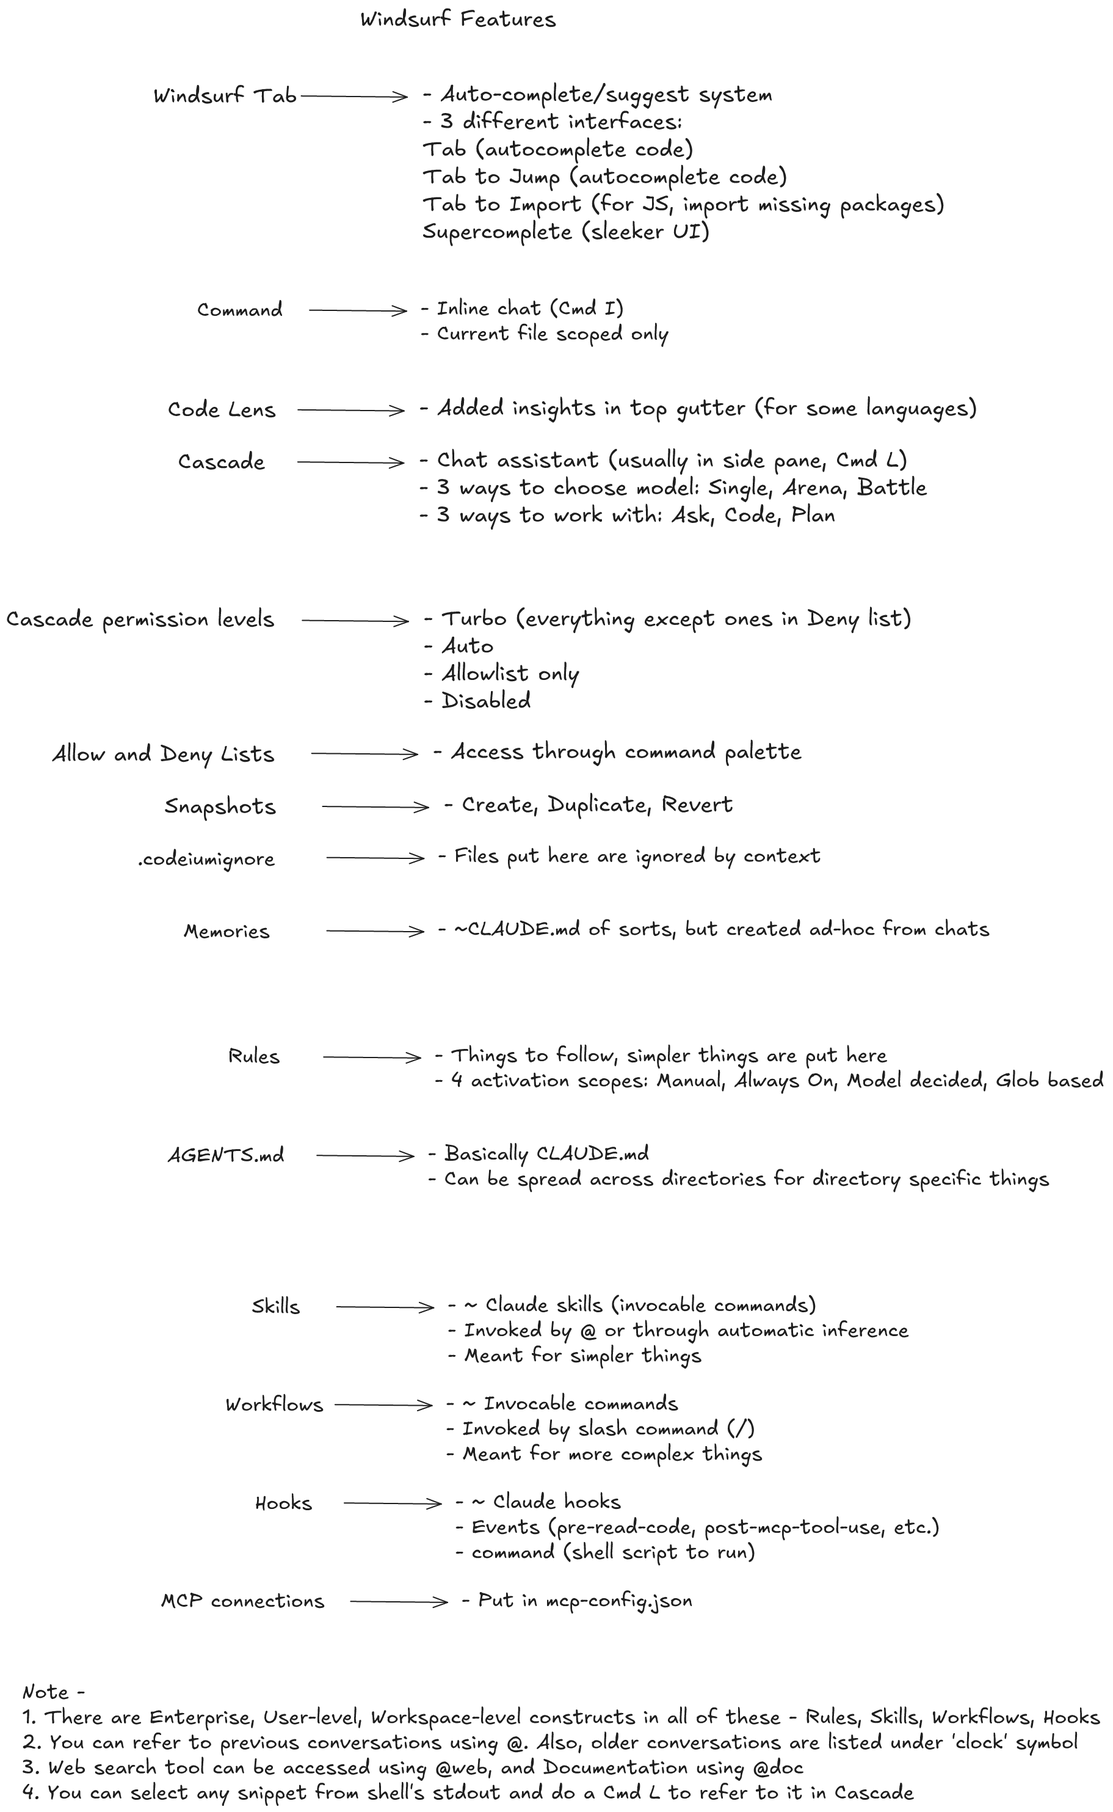
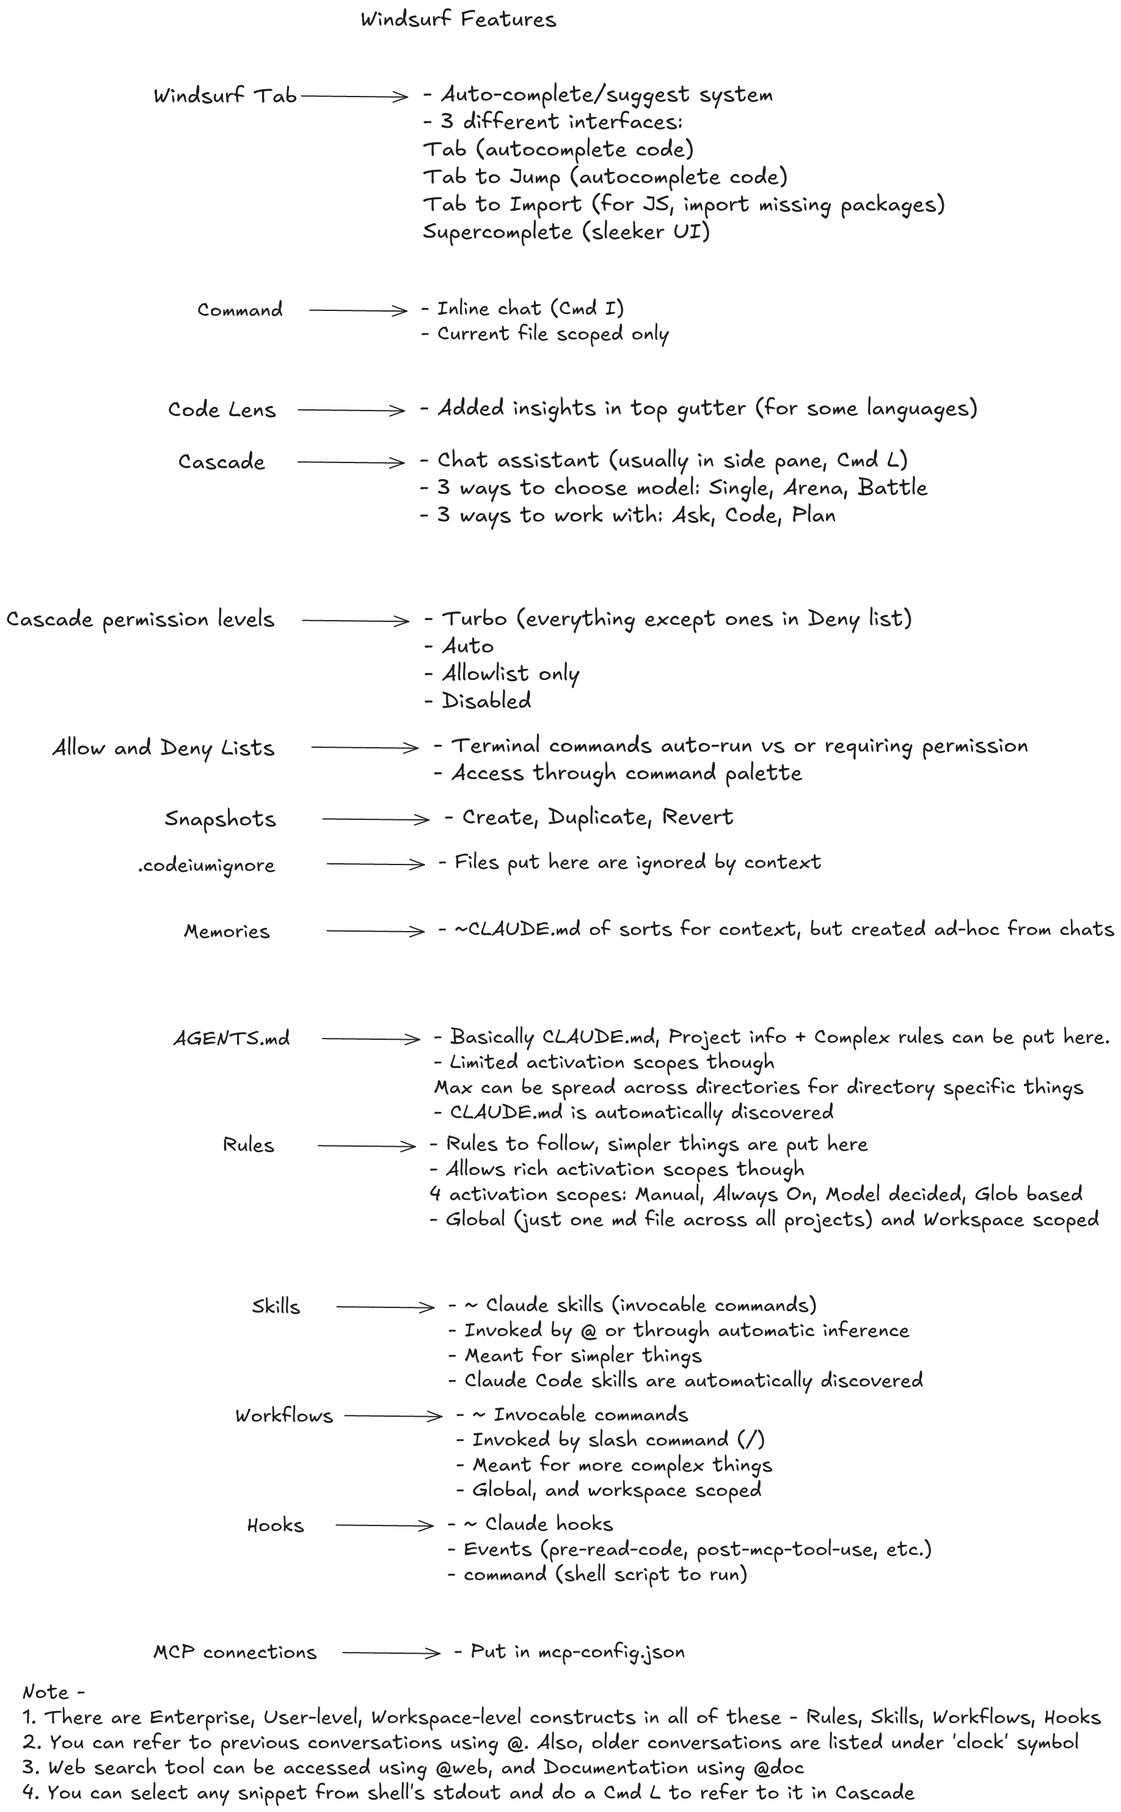
WIP, Web deployment diagram, npm + Astro

diff --git a/03. iOS/07. Persistence/1. Core Data/1. Basics - Entities, Model, Relationships, Transient Properties, etc.md b/03. iOS/07. Persistence/1. Core Data/1. Basics - Entities, Model, Relationships, Transient Properties, etc.md
@@ -1,21 +1,21 @@
 'Use Core Data' option is shown while creating a new project only if the selected template is 'Empty application'. And then if the option is chosen, CoreData.framework, a data model file and the basic Core Data methods are already added in the AppDelegate implementation. The appDelegate also has properties which gives access to the Core Data stack, i.e. managed object context, persistent store coordinator, managed object model.
 
-Core Data stack implies the typical collection (or stack) of objects that work together to get data from and store to a persistent store. The stack consists of managed object context on top, a persistent store coordinator below it, a persistent store yet below it, a managed object model right next to the persistent store coordinator, and finally the actual store file in the bottom.
+Core Data stack implies the typical collection (or stack) of objects that work together to get data from and store to a persistent store. The stack consists of **managed object context** on top, a **persistent store coordinator** below it, a **persistent store** yet below it, a **managed object model** right next to the persistent store coordinator, and finally the actual **store file** in the bottom.
 
 ![](assets/1.Basics-Entities,Model,etc-798d9f6c.png)
 
-Changes are actually stored in the store only when a commit is done, i.e. a saveContext done.
+Changes are actually stored in the store only when a **commit** is done, i.e. a saveContext done.
 
-A managed object context represents a single object space (something like a space full with managed objects). Not all the data present in the store is available by default with the context, it only has the data it retrieved. Context is what makes things like undo and redo possible.
+A **managed object context** represents a single object space (something like a space full with managed objects). Not all the data present in the store is available by default with the context, it only has the data it retrieved. Context is what makes things like undo and redo possible.
 
-A managed object model is a schema. Technically, it is a collection of entity description objects (i.e. NSEntityDescription).
+A **managed object model** is a **schema**. Technically, it is a collection of **entity description objects** (i.e. NSEntityDescription).
 
-A persistent store coordinator manages a collection of persistent object stores. Usually iOS applications have just one single store, but in some cases there may be several. Persistent store coordinator manages all these stores and presents them to its managed object contexts as a single unified store. While fetching records, Core Data retrieves results from all of them unless it is specified which particular store needs to be queried.
+A **persistent store coordinator** manages a collection of persistent object stores. Usually iOS applications have just one single store, but in some cases there may be several. Persistent store coordinator manages all these stores and presents them to its managed object contexts as a single unified store. While fetching records, Core Data retrieves results from all of them unless it is specified which particular store needs to be queried.
 
 A single coordinator can be tied to multiple contexts.
 
 
-A persistent object store is what actually maps between objects in the application and the records in the database. There are different classes of persistent object stores for the different file types that Core Data supports.
+A **persistent object store** is what actually maps between objects in the application and the records in the database. There are different classes of persistent object stores for the different file types that Core Data supports.
 
 Usually iOS applications have just a single persistent store. But in complex applications there can be multiple stores, each with potentially different entities.
 
@@ -26,19 +26,21 @@ An application can easily have multiple managed object contexts, each maintainin
 You need to have a persistent store coordinator created first and then tie a context to it.
 You need to initialize a persistent store coordinator with a managed object model and then also add a persistent store to it. So a managed object model needs to be created before a persistent store coordinator is created. Persistent store does not need to be created specifically, it automatically happens when a persistent store coordinator ties itself to a persistent store.
 
+```
 Managed object model > Persistent Store Coordinator > Managed object context
+```
 
-Even though a managed object model is added to a persistent store coordinator using a URL with .momd extension, the .momd file cannot actually be located in Finder. It is generated from the .xcdatamodeld file present in the project, during runtime.
+Even though a managed object model is added to a persistent store coordinator using a URL with `.momd` extension, the .momd file cannot actually be located in Finder. It is generated from the `.xcdatamodeld` file present in the project, during runtime.
 
 Usually document-based applications (or in other words apps using NSPersistentDocument) create their own persistence stack. In such cases, there is a one-to-one mapping between a document and an external data store.
 
-An entity can have attributes, relationships and fetched properties. Programmatically, they are represented by NSAttributeDescription, NSRelationshipDescription and NSFetchedPropertyDescription.
+An **entity** can have **attributes**, **relationships** and **fetched properties**. Programmatically, they are represented by `NSAttributeDescription`, `NSRelationshipDescription` and `NSFetchedPropertyDescription`.
 
 Entities can also follow an inheritance structure, i.e. if some entities share some common attributes then there can be a parent entity made with those common attributes and other entities would inherit from it. If this inheritance is done from Xcode's data model editor, the parent entity needs to be specified (in the Utilities area) for each of the inheriting entities. However, if it is done from the code then an array of all the inheriting entities needs to be added to the parent entity.
 
 The thing to understand about using an inheritance structure is that even if an instance of child entity is created, it automatically creates an instance of its parent entity too (i.e. 2 managed objects are getting created). Also, all the fetch requests for the parent entity will by default include even the instances (managed objects) which were created through the child entity as well. If these fetch requests should not include such instances, then includesSubentities property of the fetch request should be set as NO.
 
-An abstract entity is one for which instances are never created (a lot like NSObject). They are typically parent entities in inheritance.
+An abstract entity is one for which instances are never directly created (a lot like NSObject). They are typically parent entities in inheritance.
 
 Transient properties are those which are not saved to the persistent store. However, changes to them are tracked by Core Data for undo operations. So, they are useful when some properties need to be tracked for change but not saved. They can have other uses too, for example if there needs to be a password attribute which should never be persisted in sandbox but instead in keychain or if an attribute's can always be determined from other attribute’s values and hence persisting this attribute is redundant.
 A fetch request cannot have a predicate based on transient properties.

diff --git a/16. IDEs/6. Rulesync/Misc.md b/16. IDEs/6. Rulesync/Misc.md
@@ -1,0 +1,81 @@
+##### What is it
+
+An open source package that  keeps your skills, subagents, etc. in sync across your different AI tools so that you don't have to keep doing the manual config steps for the same stuff across all of them. ([GH link](https://github.com/dyoshikawa/rulesync), [Reference](https://rulesync.dyoshikawa.com/reference/cli-commands.html))
+
+The idea is that you put your skills, etc. in folder inside `.rulesync` and then run some rulesync commands that then copies them to appropriate folders for Claude Code, Windsurf, etc. 
+
+##### Installation
+
+Can be installed using Homebrew or npm.
+
+```
+brew install rulesync      # <---- If using Homebrew
+npm install -g rulesync    # <---- If using npm
+```
+
+And then initialize it from project directory.
+
+```
+cd project-directory
+rsync init
+```
+
+That creates the following files in project directory.
+
+```
+.rulesync
+├── commands
+│   └── review-pr.md
+├── hooks.json
+├── mcp.json
+├── rules
+│   └── overview.md
+├── skills
+│   └── project-context
+│       └── SKILL.md
+└── subagents
+    └── planner.md
+
+rulesync.jsonc
+```
+
+##### Common commands
+
+Creates the basic rulesync folder structure along with jsonc file
+
+```
+rulesync init
+```
+
+Do necessary config for the mentioned AI tools (`target` option) and featureset, i.e. skills, subagents, etc. (`features` option).
+
+```
+rulesync generate --targets "*" --features "*"
+```
+
+Download the skills, etc. from a given repo. The specific configuration is in the jsonc file.
+
+```
+rulesync fetch GH repo --features skills
+```
+
+Download only the skills, etc. mentioned in `sources` key.
+
+```
+rulesync install
+```
+
+##### rulesync.jsonc
+
+A whole bunch of things that can be configured ([documentation](https://rulesync.dyoshikawa.com/guide/declarative-sources.html)).
+
+Declarative skills are used when just specific skills should be downloaded (instead of all that happen in a `fetch`).
+
+```
+  "sources": [
+     { "source": "owner/repo" },
+     { "source": "org/repo", "skills": ["specific-skill"] },
+  ],
+```
+
+> Will declarative sources also work for subagents, and rules?

diff --git a/16. IDEs/3. Claude Code/06. CLAUDE.md b/16. IDEs/3. Claude Code/06. CLAUDE.md
@@ -25,9 +25,9 @@ The idea with **CLAUDE.md** file is that it is persistent memory automatically l
 |                                                       |                                                              |
 | **./CLAUDE.local.md** (decommissioned)                | Project specific instructions (user managed)                 |
 
-**Files in rules directory**
+##### Files in rules directory
 
-When there are plenty of content that still needs to be loaded from start, you can split them into multiple files and place in `.claude/rules' folder. This way Claude Code does not load everything right at the start but only when it thinks that it needs to.
+When there are path or extension specific rules to follow, they can be put in **rules** directory with the paths that thet need to apply to specified in `paths` frontmatter field. If the `paths` is not specified, the putting things in rules rather serves an organizational purpose only as all the content still gets loaded along with CLAUDE.md ([Documentation](https://code.claude.com/docs/en/memory#organize-rules-with-claude/rules/))
 
 ![image-20260213223411681](./assets/image-20260213223411681.png)
 
@@ -35,11 +35,15 @@ Also these files can specify (in YAML format) the extensions that they should ap
 
 ![image-20260213223514132](./assets/image-20260213223514132.png)
 
-> There can be rules folder at user level too, i.e. in `~/.claude/rules/`.
+There can be rules folder at user level too, i.e. in `~/.claude/rules/` so that they apply to all projects.
 
 ##### When are these files loaded
 
-CLAUDE.md files in child directories load on demand when Claude reads files in those directories. 
+`CLAUDE.md` and `CLAUDE.local.md` files up the directory tree are loaded at launch time.
+
+`CLAUDE.md` and `CLAUDE.local.md` files in subdirectories under your current working directory are loaded only when the files in those subdirectories are read.
+
+md files in .claude/rules are loaded as per their paths frontmatter field.
 
 **Auto memory** (i.e. ~/.claude/projects/<project>/memory/) loads only its first 200 lines.
 

diff --git a/16. IDEs/4. Windsurf/4. Memories and Rules.md b/16. IDEs/4. Windsurf/4. Memories and Rules.md
@@ -1,3 +1,5 @@
+[toc]
+
 ##### Memories
 
 **Memories** is what persists context across conversations (i.e. sessions). During conversation, Cascade automatically generates and store memories if it believes something is useful to remember. You can also tell it to create one for the current state by just saying so in Cascade. 
@@ -10,7 +12,7 @@ Essentially its some text, and you can edit it too.
 
 <img src="./assets/image-20260219180752916.png" alt="image-20260219180752916" style="zoom:50%;" />
 
-Note that Memory is just some general information, and not an exact comprehensive snapshot of a given state. Memories help Windsurf built some context, that's it.
+Note that Memory is just some general information, and not an exact comprehensive snapshot of a given state. Memories help Windsurf build some context, that's it.
 
 ##### Rules
 
@@ -18,7 +20,9 @@ Note that Memory is just some general information, and not an exact comprehensiv
 
 There are two rules files - **global_rules.md** (applied across all projects/workspaces) and **.windsurf/rules** (applies to a given project/workspace). For the project level rules, they can also be nested in any child directories anywhere in the workspace. They don't have to be in the root.
 
-Rules too are accessible from the same 'Cascade Chat Panel > Actions > Configure Rules'.
+Rules too are accessible from the same 'Cascade Chat Panel > Actions > Configure Rules'. 
+
+There is just one global rules md file that can be there, and everything has to be put there. The file is physically located at `~/.codeium/windsurf/memories/global_rules.md`.
 
 | Actions                                                      | Rules                                                        |
 | ------------------------------------------------------------ | ------------------------------------------------------------ |

diff --git a/07. Web Development/5. Node and NPM/3. npm - scripts.md b/07. Web Development/5. Node and NPM/3. npm - scripts.md
@@ -1,0 +1,17 @@
+#### Scripts
+
+The **package.json** can have a **scripts** property that looks smething like this
+
+<img src="./assets/image-20260502164224423.png" alt="image-20260502164224423" style="zoom:50%;" />
+
+What's happening here is this. things like **dev**, **start**, **build** etc. aren't something inherent to npm. What it means is that when a `npm run xyz` is done then the the key which has the name xyz in `scripts` in package.json is located, and its corresponding value  run. So `npm run dev` will do a `astro build` and then astro build does what it actually will.
+
+[Reference](https://docs.npmjs.com/cli/v10/using-npm/scripts), [ChatGPT](https://chatgpt.com/g/g-p-69eba4f755888191bad700affa6982bb-static-website-with-astro/c/69f64dcc-e690-83ea-a9f1-4ade7735ba58)
+
+##### Pre & Post Scripts
+
+Now the thing about the scripts keys **predev**, **postbuild**, etc. is that these run before/after the script name. So `predev` will run just before `npm run dev` starts and `postbuild` will run just after `npm run build` gets done. These are called [pre & post scripts](https://docs.npmjs.com/cli/v10/using-npm/scripts#pre--post-scripts).
+
+##### Life Cycle Scripts
+
+There are certain special scripts that are keyword-ed and run in specific situations. These are things **prepare**, **prepublish**, **prepublishOnly**, **prepack**, **postpack**, **dependencies** . For example, `prepare` is run just before package is packed, i.e.  `npm publish` and `npm pack`. [Reference](https://docs.npmjs.com/cli/v10/using-npm/scripts#life-cycle-scripts)

diff --git a/16. IDEs/2. Codex/1. Basics.md b/16. IDEs/2. Codex/1. Basics.md
@@ -22,7 +22,7 @@ IDE extension is invariably the most efficient way, esp. for local development.
 
 <img src="./assets/Codex-Decision-Tree.png" style="zoom:75%;" />
 
-> Keep in mind though that technically you can still work on multiple things simultaneously with IDE extensions too, just have multiple sessions running. Each task does get its own agent and sandbox. ([ChatGPT link](https://chatgpt.com/c/69ce946c-8c24-83aa-a5bb-731730b01036)) <br><br><img src="./assets/Image 2026-04-02 at 12.12.15 PM.png" alt="Image 2026-04-02 at 12.12.15 PM" style="zoom:50%;" />
+> Keep in mind though that technically you can still work on multiple things simultaneously with IDE extensions too, just have multiple sessions running. Each task does get its own agent and sandbox. ([ChatGPT link](https://chatgpt.com/c/69ce946c-8c24-83aa-a5bb-731730b01036)) <br><br><img src="./assets/Image-2026-04-02-12.12.15.png" alt="Image-2026-04-02-12.12.15" style="zoom:50%;" />
 
 
 

diff --git a/16. IDEs/AI Dev Tools Feature set.md b/16. IDEs/AI Dev Tools Feature set.md
@@ -1,0 +1,9 @@
+##### Comparable Features/Jargon
+
+|                                  | Claude Code                                               | Windsurf                                           |
+| -------------------------------- | --------------------------------------------------------- | -------------------------------------------------- |
+| Context: Project Info            | CLAUDE.md                                                 | AGENTS.md                                          |
+| Context: Rules to follow         | rules folder if path/extension based <br>CLAUDE.md if not | Rules if path/extension based <br>AGENTS.md if not |
+| Pre-specified steps (simple)     | Skills (/)                                                | Skills (@)                                         |
+| Pre-orchestrated steps (complex) | Subagents (@)                                             | Workflows (/)                                      |
+

diff --git a/16. IDEs/4. Windsurf/7. Workflows.md b/16. IDEs/4. Windsurf/7. Workflows.md
@@ -14,11 +14,17 @@ They are limited to 12000 characters each.
 
 ##### Where is it located
 
-`.windsurf/workflows/` in your workspace directory and then can also be in any sub-directory.
+Workspace workflows - `.windsurf/workflows/` in your workspace directory and then can also be in any sub-directory.
 
-Global workflows are probably saved in `~/.windsurf/workflows/`.
+Global workflows - Global workflows are saved in `~/.codeium/windsurf/global_workflows` . Previously, they used to be saved in `~/.windsurf/windsurf/workflows/`.
 
-Enterprise can have system level workflows at `/Library/Application Support/Windsurf/workflows/*.md`.
+Enterprise workflows - Enterprise can have system level workflows at `/Library/Application Support/Windsurf/workflows/*.md`.
+
+##### How to invoked them
+
+Workflows are invoked using slash command (**/**).
+
+![image-20260419140150779](./assets/image-20260419140150779.png)
 
 ##### Workflow vs Skills
 

diff --git a/07. Web Development/7. Web Hosting/3. GitHub Pages - Configuration.md b/07. Web Development/7. Web Hosting/3. GitHub Pages - Configuration.md
@@ -20,3 +20,11 @@ The GH repo needs to have a file such as `.github/workflows/pages.yml`, this is 
 
 ![image-20260111155604926](./assets/image-20260111155604926.png)
 
+##### User site in GitHub
+
+Every GitHub user/org also gets a user site, all that you need to do is to create a repo with exactly your username in the format `anandkumar9.github.io`, and then it automatically activates Pages in its settings and in a few seconds activates a site of the format `https://anandkumar9.github.io` with the default 'Pages > Source > Build and Deployment' being 'deploy from a branch' and not 'GH Actions'.
+
+Specific repos can still continue to exist with specific domains, and for such the Pages > Source > Build and Deployment is usually 'GH Actions'.
+
+![image-20260423131242474](./assets/image-20260423131242474.png)
+

diff --git a/07. Web Development/7. Web Hosting/1. Basics.md b/07. Web Development/7. Web Hosting/1. Basics.md
@@ -34,3 +34,15 @@
 
 
 ![image-20260104231919317](./assets/image-20260104231919317.png)
+
+##### Gist - How routing works
+
+<img src="./assets/Routing-of-a-webpage-call.png" alt="Routing-of-a-webpage-call" style="zoom:50%;" />
+
+
+
+In Clouflare, I have specified blog.anandkumarsingh.dev should go to anandkumar9.github.io <br>When request reaches anandkumar9.github.io, GH looks at Host header which is blog.anandkumarsingh.dev and tries to see which repo there has that as its custom domain name, and then forwards to that.
+
+> Multiple repos in a GH account can't have the same custom domain name in their Settings > Pages.
+
+![image-20260422220541486](./assets/image-20260422220541486.png)

diff --git a/16. IDEs/3. Claude Code/01. Getting Started.md b/16. IDEs/3. Claude Code/01. Getting Started.md
@@ -71,6 +71,8 @@ And then it finally asks what to do. Note that the 'clear context' in first opti
 
 ![image-20260217124228183](./assets/image-20260217124228183.png)
 
+> The generated plan md seems to be getting auto-saved in the path `~/.claude/plans`. <br> <br>![image-20260421124607848](./assets/image-20260421124607848.png)
+
 ##### Entering Bash mode
 
 Just prefix the command with !

diff --git a/Open Source and Interesting.md b/Open Source and Interesting.md
@@ -1,5 +1,9 @@
 [toc]
 
+Charles Proxy ([ChatGPT](https://chatgpt.com/c/69f1468d-0644-83ea-b065-b4194e025167)) <br>Keyboard tracking ([ChatGPT](https://chatgpt.com/c/69f293e8-dae4-83ea-9f75-b72419634a80)) <BR>server-sim ([ChatGPT](https://chatgpt.com/c/69f54c3b-4c58-83ea-81dc-6147b6a44b16))
+
+
+
 #### Open Source
 
 ##### swift-syntax related
